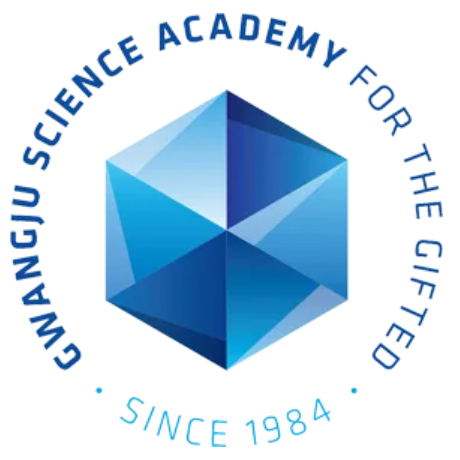
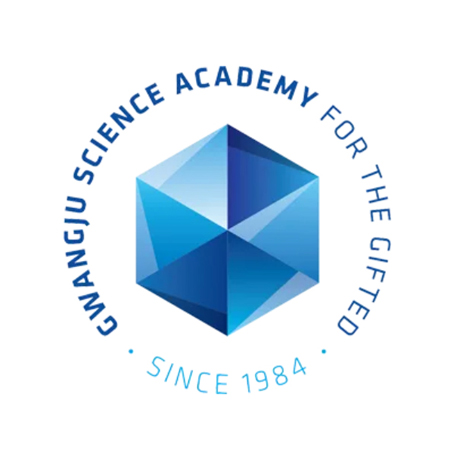
광주과학고등학교 추가

diff --git a/assets3/scripts/common/intro/init_variables.js b/assets3/scripts/common/intro/init_variables.js
@@ -198,5 +198,11 @@ let data_clients = [
 		"uuid" : "bdcb7d14-33ae-4234-b779-dc8fb35042c5",
 		"name" : "(주)DS이노베이션",
 		"url_image" : "https://cdn.jsdelivr.net/gh/statground/Statground_CDN/assets3/images/client/dsinnovation.jpg"
+	},
+	{
+		"uuid" : "31737948-9640-11ee-b9d1-0242ac120002",
+		"name" : "광주과학고등학교",
+		"url_image" : "https://cdn.jsdelivr.net/gh/statground/Statground_CDN/assets3/images/client/gwangjuscienceacademy.jpg"
 	}
+	
 ]
